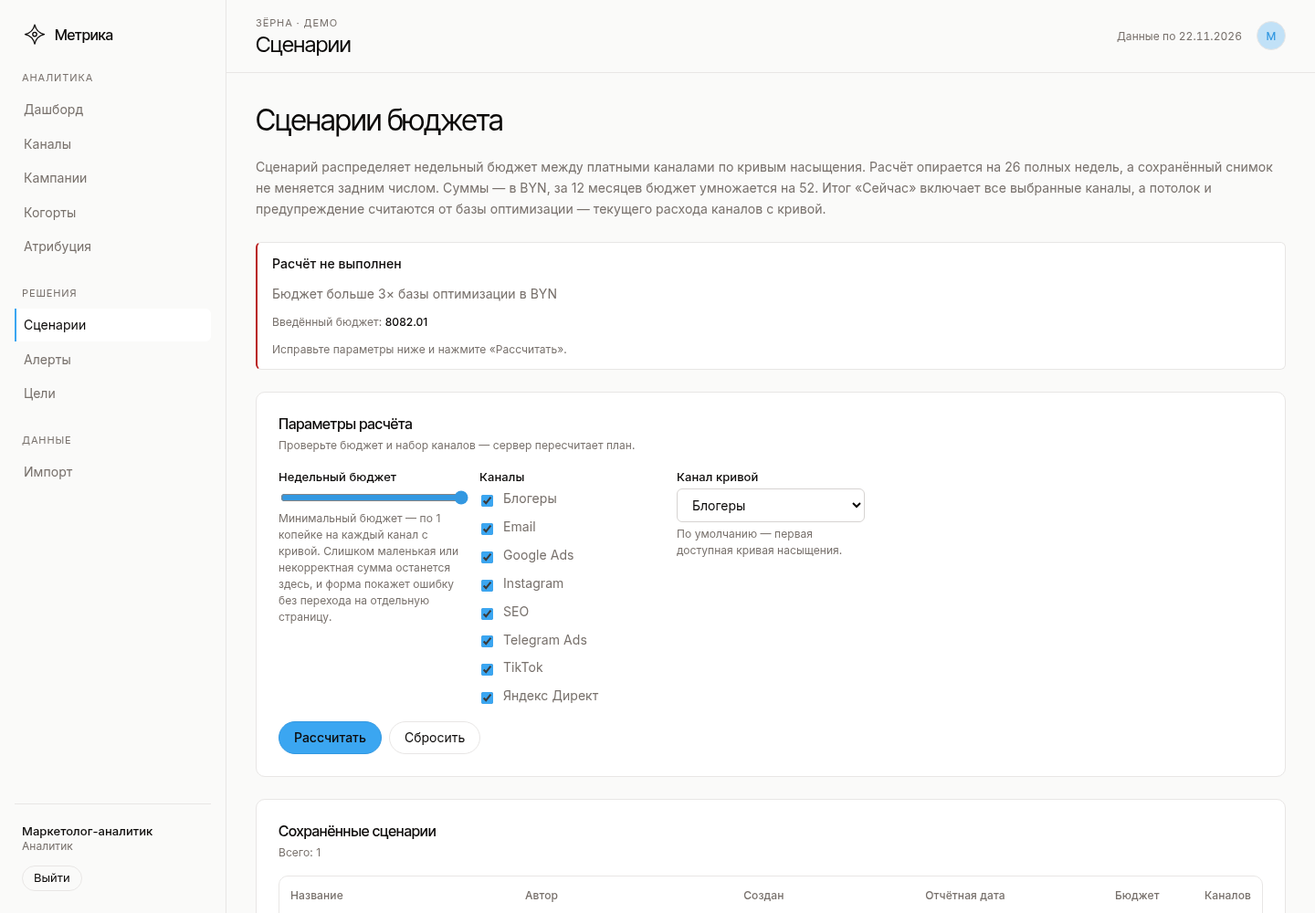
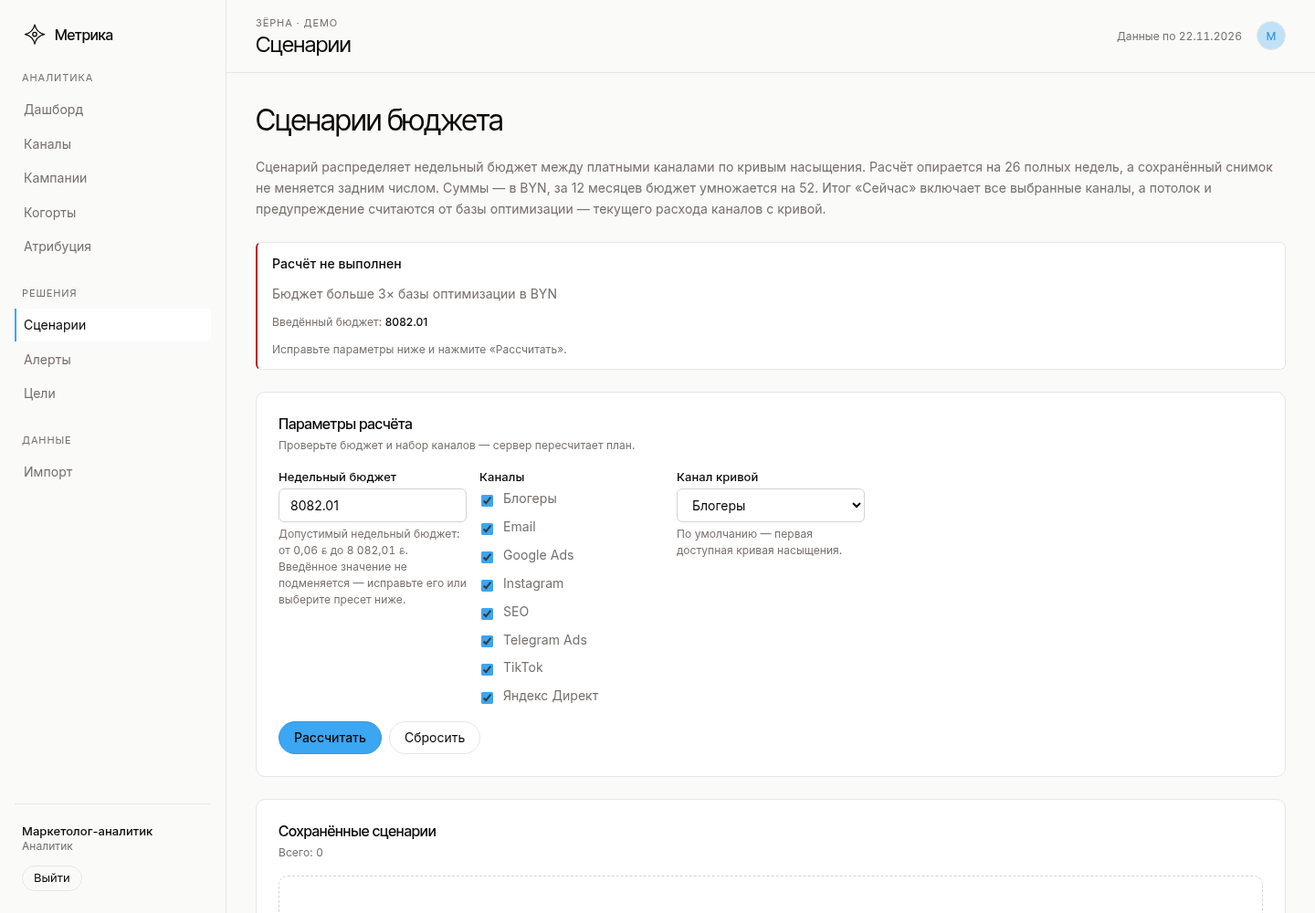
fix: preserve the rejected budget in the scenario error state
The error page reused the range input without a max; browsers defaulted it to 100, clamping 8082.01 to 100 and sanitising abc away. The error model now derives the feasible minimum and a maximum covering both the cap and the entered amount from a fallback default-budget build. Numeric entries render as a number input with the raw value, while non-numeric entries use a text fallback so abc stays visible, editable and submits unchanged.

Also remove the stale static aria-valuetext (the native range announces its own value; decision recorded in IMPROVEMENTS), drop the duplicate >2x banner so the warnings card is the single source, correct the centsToInput JSDoc, and retake the 390/error/warning screenshots. Tests assert the rendered value/max/min and the abc fallback.

diff --git a/src/services/decisions/screen-models.js b/src/services/decisions/screen-models.js
@@ -10,6 +10,7 @@ import {
   formatRatio,
 } from '../../lib/format.js';
 import { centsToApi, roundHalfUp, roundNumber } from '../../lib/metrics-math.js';
+import { parseBynToCents } from '../../lib/money.js';
 import { buildQueryString } from '../../lib/query.js';
 import { resolveWeekRange } from '../metrics/weekly-series.js';
 import { buildScenarioCharts } from './scenario-charts.js';
@@ -272,7 +273,8 @@ function customersLabel(value) {
 
 /**
  * @param {bigint} cents
- * @returns {string} Dot-decimal input value for `<input type="number">`.
+ * @returns {string} Dot-decimal BYN value accepted by both the range and the error-state number input (the form
+ *   submits decimal BYN, never kopecks).
  */
 function centsToInput(cents) {
   return `${cents / 100n}.${String(cents % 100n).padStart(2, '0')}`;
@@ -674,8 +676,9 @@ export function buildScenariosUnavailableScreen({
  *   list?: { rows: object[], page: number, total: number, hasMore: boolean },
  *   channels?: object[],
  *   query?: object,
+ *   baselineScenario?: object | null,
  *   error?: string,
- * }} input
+ * }} input `baselineScenario` is a successful default-budget build used only to derive the feasible min/cap bounds.
  * @returns {object} Builder-shaped model with `builderError: true`.
  */
 export function buildScenariosErrorScreen({
@@ -683,6 +686,7 @@ export function buildScenariosErrorScreen({
   list = { rows: [], page: 1, total: 0, hasMore: false },
   channels = [],
   query = {},
+  baselineScenario = null,
   error = 'Не удалось рассчитать сценарий с этими параметрами.',
 }) {
   const requestedIds = query.channelIds ?? null;
@@ -701,9 +705,32 @@ export function buildScenariosErrorScreen({
   const rawBudget = query.budgetByn === null || query.budgetByn === undefined
     ? ''
     : String(query.budgetByn).trim();
-  // A range input only accepts a plain non-negative number; the raw entry is kept separately for the error card so
-  // an invalid value such as `abc` is still shown back to the person.
-  const rangeBudget = /^\d+(?:[.,]\d+)?$/.test(rawBudget) ? rawBudget.replace(',', '.') : '';
+  const enteredCents = rawBudget === ''
+    ? null
+    : (() => {
+        try {
+          return parseBynToCents(rawBudget);
+        } catch {
+          return null;
+        }
+      })();
+
+  const baselineCents = baselineScenario ? optimizableBaselineCents(baselineScenario.channels) : 0n;
+  const optimizableCount = baselineScenario
+    ? optimizableChannelCount(baselineScenario.channels)
+    : 0;
+  const minCents = BigInt(Math.max(1, optimizableCount));
+  const capCents = baselineScenario
+    ? baselineCents * BigInt(METRICS_CONFIG.scenarios.maxBudgetMultiplier)
+    : 0n;
+  // The error form must show the value it rejected: a browser would clamp a range at its default 100 when `max` is
+  // absent, and an empty/`abc` value has no numeric bound at all. The max therefore covers both the cap and the
+  // entered amount; a non-numeric entry becomes a text input below so it stays visible and editable.
+  const maxCents = [enteredCents ?? 0n, capCents, minCents].reduce(
+    (largest, value) => (value > largest ? value : largest),
+    0n,
+  );
+  const numericEntry = /^\d+(?:[.,]\d+)?$/.test(rawBudget);
 
   return {
     page: 'scenarios',
@@ -715,11 +742,15 @@ export function buildScenariosErrorScreen({
     budget: null,
     controls: {
       budgetPeriod: 'week',
-      budgetInput: rangeBudget,
+      budgetInput: numericEntry ? rawBudget.replace(',', '.') : '',
       budgetEntry: rawBudget,
+      budgetInputType: numericEntry ? 'number' : 'text',
+      budgetMinInput: centsToInput(minCents),
+      budgetMinLabel: formatCentsToByn(minCents),
+      budgetMaxInput: centsToInput(maxCents),
+      budgetMaxLabel: formatCentsToByn(maxCents),
       budgetValue: null,
       budgetLabel: '—',
-      budgetMinInput: centsToInput(1n),
       curveChannelId: requestedCurve,
       curveChannelName: null,
       curveNote: null,

diff --git a/tests/unit/scenarios-island.test.js b/tests/unit/scenarios-island.test.js
@@ -181,10 +181,10 @@ describe('scenarios frame contract', () => {
     const view = readFileSync('src/views/pages/scenarios.ejs', 'utf8');
 
     expect(view).toContain('type="range"');
-    expect(view).toContain('min="<%= model.budget ? model.budget.minInput : model.controls.budgetMinInput %>"');
+    expect(view).toContain('min="<%= model.budget.minInput %>"');
     expect(view).toContain('step="0.01"');
     expect(view).toContain('max="<%= model.budget.capInput %>"');
-    expect(view).toContain('aria-valuetext');
+    expect(view).not.toContain('aria-valuetext');
     expect(view).toContain('Недельный бюджет');
     expect(view).toContain('за 12 месяцев ×<%= model.budget.weeksPerYear %>');
     expect(view).toContain('база оптимизации');
@@ -192,18 +192,22 @@ describe('scenarios frame contract', () => {
     expect(view).toContain('<%= model.budget.maxMultiplier %>× базы оптимизации');
     expect(view).not.toContain('×52');
     expect(view).not.toContain('3× текущего бюджета');
+    expect(view).not.toContain('model.budget.isAboveWarn');
     expect(view).toContain('model.controls.presets');
     expect(view).toContain('name="_csrf"');
     expect(view).toContain('name="channelIds"');
   });
 
-  it('renders a styled error card with the parameter form instead of a bare-text 400', () => {
+  it('renders a styled error card with an editable budget instead of a clamping range', () => {
     const view = readFileSync('src/views/pages/scenarios.ejs', 'utf8');
 
     expect(view).toContain('model.builderError');
     expect(view).toContain('alert alert--error');
     expect(view).toContain('Расчёт не выполнен');
     expect(view).toContain('model.controls.budgetEntry');
+    expect(view).toContain('type="<%= model.controls.budgetInputType %>"');
+    expect(view).toContain('value="<%= model.controls.budgetEntry %>"');
+    expect(view).toContain('max="<%= model.controls.budgetMaxInput %>"');
     expect(view).toContain('Параметры расчёта');
   });
 

diff --git a/tests/unit/screen-models.test.js b/tests/unit/screen-models.test.js
@@ -1597,6 +1597,46 @@ describe('scenario screen model and charts', () => {
     expect(screen.list.prevHref).toBeNull();
   });
 
+  it('exposes real bounds and preserves a numeric entered budget instead of clamping it', () => {
+    const baselineScenario = {
+      channels: [
+        { model: 'saturation', current: { spendCents: '100000' } },
+        { model: 'saturation', current: { spendCents: '100000' } },
+      ],
+    };
+    const screen = buildScenariosErrorScreen({
+      anchor: '2026-11-20',
+      channels: [
+        { id: '1', code: 'instagram', name: 'Instagram' },
+        { id: '2', code: 'google', name: 'Google Ads' },
+      ],
+      query: { budgetByn: '8082.01', channelIds: ['1', '2'] },
+      baselineScenario,
+      error: 'Бюджет больше 3× базы оптимизации в BYN',
+    });
+
+    expect(screen.controls.budgetMinInput).toBe('0.02');
+    expect(screen.controls.budgetMaxInput).toBe('8082.01');
+    expect(screen.controls.budgetEntry).toBe('8082.01');
+    expect(screen.controls.budgetInputType).toBe('number');
+  });
+
+  it('keeps a non-numeric entry in a text field so it stays visible and editable', () => {
+    const screen = buildScenariosErrorScreen({
+      anchor: '2026-11-20',
+      channels: [{ id: '1', code: 'instagram', name: 'Instagram' }],
+      query: { budgetByn: 'abc', channelIds: ['1'] },
+      baselineScenario: {
+        channels: [{ model: 'saturation', current: { spendCents: '100000' } }],
+      },
+      error: 'Введите сумму в BYN',
+    });
+
+    expect(screen.controls.budgetEntry).toBe('abc');
+    expect(screen.controls.budgetInputType).toBe('text');
+    expect(screen.controls.budgetMaxInput).toBe('3000.00');
+  });
+
   it('renders a rejected calculation as a builder error that preserves the entered values', () => {
     const screen = buildScenariosErrorScreen({
       anchor: '2026-11-20',

diff --git a/tests/integration/scenarios-screen.test.js b/tests/integration/scenarios-screen.test.js
@@ -100,7 +100,7 @@ describe('scenarios builder screen', () => {
   it('rejects a malformed, zero, negative or oversized budget on both paths with BYN wording', async () => {
     const agent = await signedIn(VIEWER);
     const base = extractDataProps((await agent.get('/app/scenarios')).text, 'scenarios');
-    const oversized = bynFromCents(BigInt(base.budget.capCents) + 100n);
+    const oversized = bynFromCents(BigInt(base.budget.capCents) + 1n);
 
     for (const budget of ['abc', '-1', '0', oversized]) {
       const page = await agent.get(`/app/scenarios?budgetByn=${encodeURIComponent(budget)}`);
@@ -115,6 +115,19 @@ describe('scenarios builder screen', () => {
       expect(page.text, budget).toMatch(/BYN/i);
       expect(api.body.error.message, budget).toMatch(/BYN/i);
       expect(api.body.error.message, budget).not.toMatch(/NaN|undefined/i);
+
+      if (budget === oversized) {
+        // The rejected amount must be rendered exactly: a range without `max` clamps it to its default 100.
+        expect(page.text).toContain('type="number"');
+        expect(page.text).toContain(`value="${oversized}"`);
+        expect(page.text).toContain(`max="${oversized}"`);
+        expect(page.text).toContain(`min="${base.budget.minInput}"`);
+      }
+      if (budget === 'abc') {
+        // A number input would sanitise `abc` to an empty value; the text fallback keeps it editable.
+        expect(page.text).toContain('type="text"');
+        expect(page.text).toContain('value="abc"');
+      }
     }
   });
 

diff --git a/src/controllers/scenarios.controller.js b/src/controllers/scenarios.controller.js
@@ -204,11 +204,24 @@ export function createScenariosController({
               'расходом и новыми клиентами.',
           });
         } else {
+          // A rejected budget or channel set still needs the feasible slider bounds. A successful default-budget
+          // build gives the optimizable baseline and channel count without trusting the rejected value; when it also
+          // fails (zero baseline, unknown channel), the model falls back to the one-kopeck floor.
+          let baselineScenario = null;
+          try {
+            baselineScenario = await services.scenarios.buildScenario({
+              anchor,
+              channelIds: query.channelIds ?? null,
+            });
+          } catch (baselineError) {
+            if (!(baselineError instanceof ValidationError)) throw baselineError;
+          }
           screen = screenModels.scenariosError({
             anchor,
             list,
             channels,
             query,
+            baselineScenario,
             error: failure.message,
           });
         }

diff --git a/src/services/decisions/scenarios.service.js b/src/services/decisions/scenarios.service.js
@@ -349,7 +349,7 @@ export function createScenariosService({
     const warnAboveCents = baselineCents * BigInt(METRICS_CONFIG.scenarios.warnBudgetMultiplier);
     if (budgetCents > warnAboveCents) {
       warnings.push(
-        `Бюджет больше фактического более чем в ${METRICS_CONFIG.scenarios.warnBudgetMultiplier} раза — ` +
+        `Бюджет больше базы оптимизации более чем в ${METRICS_CONFIG.scenarios.warnBudgetMultiplier} раза — ` +
           'прогноз за пределами наблюдённых расходов (экстраполяция)',
       );
     }

diff --git a/docs/screenshots/m5/README.md b/docs/screenshots/m5/README.md
@@ -124,9 +124,10 @@ agent-browser --session m5 open http://localhost:3000/app/scenarios
 agent-browser --session m5 wait --text "Параметры расчёта"
 agent-browser --session m5 screenshot docs/screenshots/m5/scenarios.png
 
-# Предупреждение >2× и отказ на 3×+1 копейку
+# Предупреждение >2× (единственная карточка warnings) и отказ на 3×+1 копейку
 agent-browser --session m5 open 'http://localhost:3000/app/scenarios?budgetByn=5388.01'
-agent-browser --session m5 wait --text "Бюджет больше фактического"
+agent-browser --session m5 wait --text "Предупреждения расчёта"
+agent-browser --session m5 eval 'window.scrollTo(0, document.body.scrollHeight)'
 agent-browser --session m5 screenshot docs/screenshots/m5/scenarios-warning.png
 agent-browser --session m5 open 'http://localhost:3000/app/scenarios?budgetByn=8082.01'
 agent-browser --session m5 screenshot docs/screenshots/m5/scenarios-error.png
@@ -204,8 +205,8 @@ agent-browser --session m5 screenshot docs/screenshots/m5/scenarios-390.png
 
 Builder по умолчанию: недельный бюджет **2 694,00 BYN**, 12 месяцев ×52 = **140 088,00 BYN**, максимум
 **8 082,00 BYN** (3×), порог предупреждения **5 388,00 BYN** (2×), 8 каналов, 26 полных недель. Пресет «×2»
-открыл `/app/scenarios?budgetByn=5388.00…`, значение слайдера стало `5388`, подпись «280 176,00 BYN», баннера
-предупреждения на ровно 2× нет.
+открыл `/app/scenarios?budgetByn=5388.00…`, значение слайдера стало `5388`, подпись «280 176,00 BYN»; на ровно
+2× предупреждения нет, а выше 2× оно показывается один раз — в карточке «Предупреждения расчёта».
 
 | Бюджет, BYN | Ответ | Что видно |
 |---:|---|---|
@@ -213,14 +214,16 @@ Builder по умолчанию: недельный бюджет **2 694,00 BYN*
 | `0.06` | 200 | минимальный распределяемый бюджет: по 1 копейке на 6 кривых |
 | `2 694` | 200 | значение по умолчанию, без предупреждения |
 | `5 388` | 200 | ровно 2× базы оптимизации, предупреждения ещё нет |
-| `5 388.01` | 200 | «Бюджет больше фактического более чем в 2 раза — прогноз за пределами наблюдённых расходов» |
+| `5 388.01` | 200 | «Бюджет больше базы оптимизации более чем в 2 раза — прогноз за пределами наблюдённых расходов (экстраполяция)» |
 | `8 082` | 200 | ровно 3×, предупреждение есть (это выше 2×) |
-| `8 082.01` | 400 | styled-страница «Бюджет больше 3× базы оптимизации в BYN», введённое значение сохранено |
+| `8 082.01` | 400 | styled-страница «Бюджет больше 3× базы оптимизации в BYN»; введённое `8082.01` остаётся в поле |
 
 - **Клавиатура.** `focus '#budgetByn'` + `End` даёт `8082`, `Home` — `0.06` (минимум слайдера теперь равен
-  1 копейке × число каналов с кривой); в accessibility-tree слайдер называется «Недельный бюджет», а
-  `aria-valuetext` повторяет текущую сумму. Ошибка бюджета больше не уходит в plain-text 400: страница отвечает
-  тем же 400, но рендерит builder с alert-карточкой, формой и введённым значением.
+  1 копейке × число каналов с кривой); в accessibility-tree слайдер называется «Недельный бюджет» и объявляет
+  собственное значение. Статический `aria-valuetext` убран: он не обновлялся вместе с ползунком и объявлял
+  устаревшую сумму. Ошибка бюджета больше не уходит в plain-text 400 и не обрезается до 100: страница отвечает
+  тем же 400, но рендерит builder с alert-карточкой, полем `number` (для `abc` — `text`) с реальными `min`/`max`
+  и введённым значением.
 - **Fallback кривой.** `?channelIds=1,2&curveChannelId=8` вернул 200, оставил Google Ads и Instagram и показал
   «Выбранный канал кривой не входит в набор — показываем первую доступную кривую». Это presentation-only:
   суммы плана от выбора кривой не зависят. API намеренно строже: тот же запрос к
@@ -327,9 +330,9 @@ agent-browser --session m5v open http://localhost:3000/app/scenarios
 | `alerts-dismissed.png` | 1440×1000 | Таблица после скрытия TikTok: прокручена к «Сработавшие правила», строка со статусом «Скрыт», значением **58,69 BYN** и порогом **56,74 BYN** |
 | `alerts-390.png` | 390×844 | Мобильный верх алертов: свёрнутое меню, topbar, фильтры и начало сводки |
 | `scenarios.png` | 1440×1000 | Builder: слайдер 2 694,00 BYN, 12 месяцев 140 088,00 BYN, максимум 8 082,00 BYN, каналы, пресеты и первые плитки результата |
-| `scenarios-390.png` | 390×844 | Мобильный builder: заголовок, параметры, слайдер и начало списка каналов |
-| `scenarios-warning.png` | 1440×1000 | Бюджет 5 388,01 BYN: видимое предупреждение «больше фактического более чем в 2 раза» |
-| `scenarios-error.png` | 1440×1000 | Ответ 400 на 8 082,01 BYN: styled builder с карточкой «Расчёт не выполнен», «Бюджет больше 3× базы оптимизации в BYN» и введённым значением |
+| `scenarios-390.png` | 390×844 | Мобильный builder: заголовок, параметры, слайдер с подсказкой о базе оптимизации и начале каналов |
+| `scenarios-warning.png` | 1440×1000 | Бюджет 5 388,01 BYN: прокручено к единственной карточке «Предупреждения расчёта» с «Бюджет больше базы оптимизации более чем в 2 раза… (экстраполяция)» |
+| `scenarios-error.png` | 1440×1000 | Ответ 400 на 8 082,01 BYN: styled builder с карточкой «Расчёт не выполнен», «Бюджет больше 3× базы оптимизации в BYN», полем `number` со значением `8082.01` и `max="8082.01"` |
 | `scenario-detail.png` | 1440×1000 | Сохранённый снимок «Зёрна: снимок после фикса»: автор, дата, отчётная дата, плитки и таблица «До и после» с ROMI `+212,19%` |
 | `scenarios-empty.png` | 1440×1000 | Пустой стенд: «Нет данных для расчёта сценария», объяснение и ссылка «Перейти к импорту» |
 

diff --git a/IMPROVEMENTS.md b/IMPROVEMENTS.md
@@ -837,10 +837,12 @@ Still open:
 - **The scenario `curveChannelId` is a presentation choice, defaulting to the first fitted channel.** No channel is
   labelled "problem" for scenarios; the alerts screen owns that heuristic. The curve selector only changes which
   stored `K`/`S`/`observed` row is drawn; the plan and totals never depend on it.
-- **The native range input announces a raw float value to assistive technology.** `type="range"` with
-  `min="0.01"` and a multi-thousand-BYN `max` stored `2705.7099609375` internally; Chrome submitted `2705.71`, but
-  `aria-valuenow` exposed the unrounded float. **Resolved in the final M5 fix wave:** the input now carries
-  `aria-valuetext` with the formatted weekly amount, and the minimum is the feasible one (see the Task 8 note below).
+- **The native range input announces a raw float value to assistive technology.** `type="range"` with a
+  multi-thousand-BYN `max` stores `2705.7099609375` internally; Chrome submits `2705.71`, but `aria-valuenow` exposes
+  the unrounded float. **Decision after the final M5 review:** the range keeps its native announcement and the static
+  `aria-valuetext` was removed — it did not update while the slider moved and announced a stale amount. If formatted
+  BYN announcements become a requirement, mirror the slider value into a live island string instead of a fixed
+  server-rendered attribute.
 
 ## M5 Task 8 — final E2E and evidence follow-ups
 
@@ -849,9 +851,10 @@ Still open:
   1 копейку каждому каналу», while `0.06` was the first accepted value. **Resolved in the final M5 fix wave:** the
   screen model derives `budget.minInput` from the optimizable channel count, so `Home` lands on `0.06`.
 - **The raw-float `aria-valuenow` was confirmed in a real browser, not just inferred.** On `/app/scenarios` the
-  accessibility tree reported `0.009999999776482582` after `Home`. **Resolved in the final M5 fix wave:** the slider
-  now pairs it with `aria-valuetext` («2 694,00 BYN в неделю») and the minimum is feasible; `aria-valuenow` itself
-  stays native.
+  accessibility tree reported `0.009999999776482582` after `Home`. **Decision after the final M5 review:** the
+  native range announcement stays; the static `aria-valuetext` was removed because it did not follow the thumb and
+  could announce a stale amount. The minimum is now feasible (see the slider note above), so `Home` no longer lands
+  on a rejected value. A formatted live announcement needs an island mirror, not a server-rendered constant.
 - **Scenario validation errors lost the page and the entered budget.** `GET /app/scenarios?budgetByn=8082.01`
   returned a plain-text 400, not the styled builder with an error card. **Resolved in the final M5 fix wave:** the
   page catches builder `ValidationError`s (including schema errors) and renders the parameter form with a styled error
